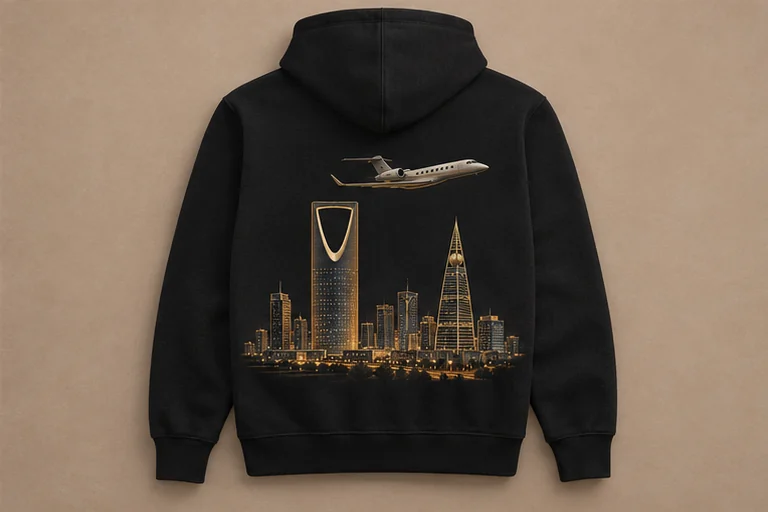
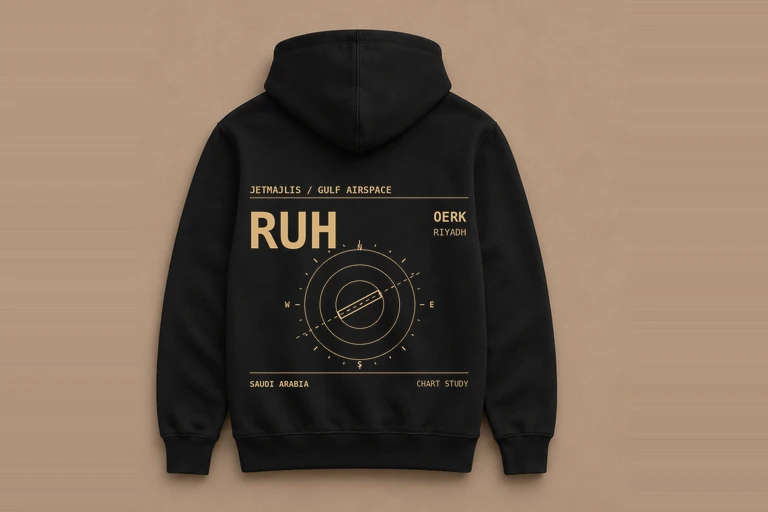
Tour the jet and add airport chart hoodie backs

Changed region(s): [[0.1562, 0.0, 0.8125, 1.0], [0.2812, 0.8125, 0.3125, 0.875]]

diff --git a/index.html b/index.html
@@ -7,8 +7,8 @@
   <meta name="description" content="JetMajlis is a Gulf aviation lifestyle brand. Explore six Gulf-inspired hoodie concepts.">
   <title>JetMajlis | Above the ordinary</title>
   <link rel="canonical" href="https://jetmajlis.com/">
-  <link rel="stylesheet" href="/assets/campaign/campaign.css?v=hoodies">
-  <script src="/assets/campaign/campaign.js?v=hoodies" defer></script>
+  <link rel="stylesheet" href="/assets/campaign/campaign.css?v=flight-deck">
+  <script src="/assets/campaign/campaign.js?v=flight-deck" defer></script>
 </head>
 <body>
 <a href="#main" class="skip"><span data-ar="انتقل إلى المحتوى">Skip to content</span></a>
@@ -28,17 +28,47 @@
 </div>
 </header>
 <main id="main">
-  <section id="home" class="flight" aria-labelledby="flight-title">
-    <div class="flight-frame">
-      <picture><source media="(max-aspect-ratio: 3/4)" srcset="/assets/campaign/sky-portrait.webp"><img class="sky" src="/assets/campaign/sky.webp" alt="" width="1536" height="1024" decoding="async"></picture>
-      <picture><source media="(max-aspect-ratio: 3/4)" srcset="/assets/campaign/cabin-portrait.webp"><img class="cabin" src="/assets/campaign/cabin.webp" alt="" width="1536" height="1024" fetchpriority="high" decoding="async"></picture>
-      <div class="flight-shade"></div>
-      <div class="flight-copy">
-        <p class="kicker"><span data-ar="أسلوب حياة مستوحى من طيران الخليج">Gulf aviation lifestyle</span></p>
-        <h1 id="flight-title"><span data-ar="فوق المألوف.">Above the ordinary.</span></h1>
-        <p class="flight-brand" lang="ar">سما العز</p>
+  <section id="home" class="journey" aria-labelledby="flight-title">
+    <div class="journey-frame">
+      <article class="journey-scene" id="jet-apron">
+        <img src="/assets/campaign/jet-apron.webp" alt="" width="768" height="512" decoding="async" fetchpriority="high">
+        <div class="journey-copy">
+          <p class="kicker"><span data-ar="ساحة الطائرات">Apron</span></p>
+          <h1 id="flight-title"><span data-ar="فوق المألوف.">Above the ordinary.</span></h1>
+          <p class="flight-brand" lang="ar">سما العز</p>
+          <a class="journey-link journey-next" href="#jet-boarding"><span data-ar="اقترب من الطائرة">Walk toward the jet</span></a>
+        </div>
+      </article>
+      <article class="journey-scene" id="jet-boarding">
+        <img src="/assets/campaign/jet-boarding.webp" alt="" width="768" height="512" decoding="async" loading="lazy">
+        <div class="journey-copy">
+          <p class="kicker"><span data-ar="الصعود">Boarding</span></p>
+          <h2><span data-ar="تفضّل بالصعود.">Step aboard.</span></h2>
+          
+          <a class="journey-link journey-next" href="#jet-cabin"><span data-ar="تابع الصعود عبر سلّم الطائرة">Follow the airstair</span></a>
+        </div>
+      </article>
+      <article class="journey-scene" id="jet-cabin">
+        <img src="/assets/campaign/jet-cabin.webp" alt="" width="768" height="512" decoding="async" loading="lazy">
+        <div class="journey-copy">
+          <p class="kicker"><span data-ar="المقصورة">Cabin</span></p>
+          <h2><span data-ar="عبر المقصورة.">Through the cabin.</span></h2>
+          
+          <a class="journey-link journey-next" href="#jet-cockpit"><span data-ar="تابع نحو مقدّمة الطائرة">Continue forward</span></a>
+        </div>
+      </article>
+      <article class="journey-scene" id="jet-cockpit">
+        <img src="/assets/campaign/jet-cockpit.webp" alt="" width="768" height="512" decoding="async" loading="lazy">
+        <div class="journey-copy">
+          <p class="kicker"><span data-ar="قمرة القيادة">Cockpit</span></p>
+          <h2><span data-ar="مجموعة قمرة القيادة.">The flight deck collection.</span></h2>
+          
+          <a class="journey-link" href="#collections"><span data-ar="تصفّح هوديز الخليج">Explore the GCC hoodies</span></a>
+        </div>
+      </article>
+      <div class="journey-track" role="group" aria-label="Tour the private jet" data-ar-label="جولة في الطائرة الخاصة" hidden>
+        <button type="button" data-stage="0" aria-controls="jet-apron" aria-pressed="true"><span data-ar="ساحة الطائرات">Apron</span></button><button type="button" data-stage="1" aria-controls="jet-boarding" aria-pressed="false"><span data-ar="الصعود">Boarding</span></button><button type="button" data-stage="2" aria-controls="jet-cabin" aria-pressed="false"><span data-ar="المقصورة">Cabin</span></button><button type="button" data-stage="3" aria-controls="jet-cockpit" aria-pressed="false"><span data-ar="قمرة القيادة">Cockpit</span></button>
       </div>
-      <a class="flight-link" href="#collections"><span data-ar="استكشف المجموعات">Explore collections</span></a>
     </div>
   </section>
   <section id="collections" class="collections" aria-labelledby="collections-title">
@@ -51,79 +81,79 @@
     <div class="shop-grid hoodie-grid">
       <article class="shop-card hoodie-card uae-hoodie" id="uae" aria-labelledby="uae-title">
         <div class="gallery">
-          <div class="gallery-stage"><figure id="uae-front"><img src="/assets/campaign/uae-hoodie-front.webp" alt="Falcon Hoodie · Front" data-ar-alt="هودي الصقر · الأمام" width="768" height="512" loading="lazy" decoding="async"></figure><figure id="uae-back" hidden><img src="/assets/campaign/uae-hoodie-back.webp" alt="Falcon Hoodie · Back" data-ar-alt="هودي الصقر · الخلف" width="768" height="512" loading="lazy" decoding="async"></figure><figure id="uae-detail" hidden><img src="/assets/campaign/uae-hoodie-detail.webp" alt="Falcon Hoodie · Detail" data-ar-alt="هودي الصقر · التفاصيل" width="768" height="512" loading="lazy" decoding="async"></figure></div>
+          <div class="gallery-stage"><figure id="uae-front"><img src="/assets/campaign/uae-hoodie-front.webp" alt="Falcon Hoodie · Front" data-ar-alt="هودي الصقر · الأمام" width="768" height="512" loading="lazy" decoding="async"></figure><figure id="uae-back" hidden><img src="/assets/campaign/uae-hoodie-back.webp?v=chart" alt="Dubai aviation back print" data-ar-alt="طبعة طيران على الظهر مستوحاة من دبي" width="768" height="512" loading="lazy" decoding="async"></figure><figure id="uae-detail" hidden><img src="/assets/campaign/uae-hoodie-detail.webp" alt="Falcon Hoodie · Detail" data-ar-alt="هودي الصقر · التفاصيل" width="768" height="512" loading="lazy" decoding="async"></figure></div>
           <button class="expand-image" type="button" aria-haspopup="dialog" hidden><span data-ar="تكبير الصورة">Enlarge image</span></button>
           <div class="gallery-controls" role="group" aria-label="Choose a product view" data-ar-label="اختر زاوية العرض"><button type="button" aria-controls="uae-front" aria-pressed="true"><span data-ar="الأمام">Front</span></button><button type="button" aria-controls="uae-back" aria-pressed="false"><span data-ar="الخلف">Back</span></button><button type="button" aria-controls="uae-detail" aria-pressed="false"><span data-ar="التفاصيل">Detail</span></button></div>
         </div>
         <div class="hoodie-copy">
           <p class="kicker"><bdi>DXB</bdi> · <span data-ar="الإمارات العربية المتحدة">United Arab Emirates</span></p>
           <h3 id="uae-title"><span data-ar="هودي الصقر">Falcon Hoodie</span></h3>
-          <p class="description"><span data-ar="هودي عاجي يزيّن صدره صقر بألوان الإمارات، وعلى ظهره طائرة رجال أعمال فوق أفق دبي.">Ivory hoodie with a falcon in UAE colours on the chest. On the back, a business jet crosses the Dubai skyline.</span></p>
+          <p class="description"><span data-ar="هودي عاجي يزيّن صدره صقر بألوان الإمارات. وعلى الظهر رسم مستوحى من خرائط الطيران في دبي يتضمّن رمز المطار.">Ivory hoodie with a falcon in UAE colours on the chest. The back carries a Dubai flight-chart graphic with its airport code.</span></p>
           <button class="shop-action shop-primary" data-add-product="uae" type="button" hidden><span data-ar="أضف إلى السلة">Add to basket</span></button>
         </div>
       </article>
       <article class="shop-card hoodie-card saudi-hoodie" id="saudi" aria-labelledby="saudi-title">
         <div class="gallery">
-          <div class="gallery-stage"><figure id="saudi-front"><img src="/assets/campaign/saudi-hoodie-front.webp" alt="Riyadh Skyline Hoodie · Front" data-ar-alt="هودي أفق الرياض · الأمام" width="768" height="512" loading="lazy" decoding="async"></figure><figure id="saudi-back" hidden><img src="/assets/campaign/saudi-hoodie-back.webp" alt="Riyadh Skyline Hoodie · Back" data-ar-alt="هودي أفق الرياض · الخلف" width="768" height="512" loading="lazy" decoding="async"></figure><figure id="saudi-detail" hidden><img src="/assets/campaign/saudi-hoodie-detail.webp" alt="Riyadh Skyline Hoodie · Detail" data-ar-alt="هودي أفق الرياض · التفاصيل" width="768" height="512" loading="lazy" decoding="async"></figure></div>
+          <div class="gallery-stage"><figure id="saudi-front"><img src="/assets/campaign/saudi-hoodie-front.webp" alt="Riyadh Skyline Hoodie · Front" data-ar-alt="هودي أفق الرياض · الأمام" width="768" height="512" loading="lazy" decoding="async"></figure><figure id="saudi-back" hidden><img src="/assets/campaign/saudi-hoodie-back.webp?v=chart" alt="Riyadh aviation back print" data-ar-alt="طبعة طيران على الظهر مستوحاة من الرياض" width="768" height="512" loading="lazy" decoding="async"></figure><figure id="saudi-detail" hidden><img src="/assets/campaign/saudi-hoodie-detail.webp" alt="Riyadh Skyline Hoodie · Detail" data-ar-alt="هودي أفق الرياض · التفاصيل" width="768" height="512" loading="lazy" decoding="async"></figure></div>
           <button class="expand-image" type="button" aria-haspopup="dialog" hidden><span data-ar="تكبير الصورة">Enlarge image</span></button>
           <div class="gallery-controls" role="group" aria-label="Choose a product view" data-ar-label="اختر زاوية العرض"><button type="button" aria-controls="saudi-front" aria-pressed="true"><span data-ar="الأمام">Front</span></button><button type="button" aria-controls="saudi-back" aria-pressed="false"><span data-ar="الخلف">Back</span></button><button type="button" aria-controls="saudi-detail" aria-pressed="false"><span data-ar="التفاصيل">Detail</span></button></div>
         </div>
         <div class="hoodie-copy">
           <p class="kicker"><bdi>RUH</bdi> · <span data-ar="السعودية">Saudi Arabia</span></p>
           <h3 id="saudi-title"><span data-ar="هودي أفق الرياض">Riyadh Skyline Hoodie</span></h3>
-          <p class="description"><span data-ar="هودي أسود يزيّن صدره رسم نخلة وسيفين متقاطعين باللون الذهبي، وعلى ظهره طائرة رجال أعمال فوق أفق الرياض.">Black hoodie with a gold palm and crossed swords on the chest. The back pairs a business jet with the Riyadh skyline.</span></p>
+          <p class="description"><span data-ar="هودي أسود يزيّن صدره رسم نخلة وسيفين متقاطعين باللون الذهبي. وعلى الظهر رسم مستوحى من خرائط الطيران في الرياض يتضمّن رمز المطار.">Black hoodie with a gold palm and crossed swords on the chest. The back carries a Riyadh flight-chart graphic with its airport code.</span></p>
           <button class="shop-action shop-primary" data-add-product="saudi" type="button" hidden><span data-ar="أضف إلى السلة">Add to basket</span></button>
         </div>
       </article>
       <article class="shop-card hoodie-card bahrain-hoodie" id="bahrain" aria-labelledby="bahrain-title">
         <div class="gallery">
-          <div class="gallery-stage"><figure id="bahrain-front"><img src="/assets/campaign/bahrain-hoodie-front.webp" alt="Bahrain Sail Towers Hoodie · Front" data-ar-alt="هودي أبراج البحرين · الأمام" width="768" height="512" loading="lazy" decoding="async"></figure><figure id="bahrain-detail" hidden><img src="/assets/campaign/bahrain-hoodie-detail.webp" alt="Bahrain Sail Towers Hoodie · Detail" data-ar-alt="هودي أبراج البحرين · التفاصيل" width="768" height="512" loading="lazy" decoding="async"></figure></div>
+          <div class="gallery-stage"><figure id="bahrain-front"><img src="/assets/campaign/bahrain-hoodie-front.webp" alt="Bahrain Sail Towers Hoodie · Front" data-ar-alt="هودي أبراج البحرين · الأمام" width="768" height="512" loading="lazy" decoding="async"></figure><figure id="bahrain-back" hidden><img src="/assets/campaign/bahrain-hoodie-back.webp?v=chart" alt="Bahrain aviation back print" data-ar-alt="طبعة طيران على الظهر مستوحاة من البحرين" width="768" height="512" loading="lazy" decoding="async"></figure><figure id="bahrain-detail" hidden><img src="/assets/campaign/bahrain-hoodie-detail.webp" alt="Bahrain Sail Towers Hoodie · Detail" data-ar-alt="هودي أبراج البحرين · التفاصيل" width="768" height="512" loading="lazy" decoding="async"></figure></div>
           <button class="expand-image" type="button" aria-haspopup="dialog" hidden><span data-ar="تكبير الصورة">Enlarge image</span></button>
-          <div class="gallery-controls" role="group" aria-label="Choose a product view" data-ar-label="اختر زاوية العرض"><button type="button" aria-controls="bahrain-front" aria-pressed="true"><span data-ar="الأمام">Front</span></button><button type="button" aria-controls="bahrain-detail" aria-pressed="false"><span data-ar="التفاصيل">Detail</span></button></div>
+          <div class="gallery-controls" role="group" aria-label="Choose a product view" data-ar-label="اختر زاوية العرض"><button type="button" aria-controls="bahrain-front" aria-pressed="true"><span data-ar="الأمام">Front</span></button><button type="button" aria-controls="bahrain-back" aria-pressed="false"><span data-ar="الخلف">Back</span></button><button type="button" aria-controls="bahrain-detail" aria-pressed="false"><span data-ar="التفاصيل">Detail</span></button></div>
         </div>
         <div class="hoodie-copy">
           <p class="kicker"><bdi>BAH</bdi> · <span data-ar="البحرين">Bahrain</span></p>
           <h3 id="bahrain-title"><span data-ar="هودي أبراج البحرين">Bahrain Sail Towers Hoodie</span></h3>
-          <p class="description"><span data-ar="هودي رملي يزيّنه رسم برجي مركز البحرين التجاري العالمي في المنامة، المستوحيين من شكل الأشرعة.">Sand hoodie featuring the twin sail-shaped towers of the Bahrain World Trade Center in Manama.</span></p>
+          <p class="description"><span data-ar="هودي رملي يزيّنه رسم برجي مركز البحرين التجاري العالمي في المنامة، المستوحيين من شكل الأشرعة. وعلى الظهر رسم مستوحى من خرائط الطيران في البحرين يتضمّن رمز المطار.">Sand hoodie featuring the twin sail-shaped towers of the Bahrain World Trade Center in Manama. The back carries a Bahrain flight-chart graphic with its airport code.</span></p>
           <button class="shop-action shop-primary" data-add-product="bahrain" type="button" hidden><span data-ar="أضف إلى السلة">Add to basket</span></button>
         </div>
       </article>
       <article class="shop-card hoodie-card qatar-hoodie" id="qatar" aria-labelledby="qatar-title">
         <div class="gallery">
-          <div class="gallery-stage"><figure id="qatar-front"><img src="/assets/campaign/qatar-hoodie-front.webp" alt="Doha Museum Hoodie · Front" data-ar-alt="هودي متحف الدوحة · الأمام" width="768" height="512" loading="lazy" decoding="async"></figure><figure id="qatar-detail" hidden><img src="/assets/campaign/qatar-hoodie-detail.webp" alt="Doha Museum Hoodie · Detail" data-ar-alt="هودي متحف الدوحة · التفاصيل" width="768" height="512" loading="lazy" decoding="async"></figure></div>
+          <div class="gallery-stage"><figure id="qatar-front"><img src="/assets/campaign/qatar-hoodie-front.webp" alt="Doha Museum Hoodie · Front" data-ar-alt="هودي متحف الدوحة · الأمام" width="768" height="512" loading="lazy" decoding="async"></figure><figure id="qatar-back" hidden><img src="/assets/campaign/qatar-hoodie-back.webp?v=chart" alt="Doha aviation back print" data-ar-alt="طبعة طيران على الظهر مستوحاة من الدوحة" width="768" height="512" loading="lazy" decoding="async"></figure><figure id="qatar-detail" hidden><img src="/assets/campaign/qatar-hoodie-detail.webp" alt="Doha Museum Hoodie · Detail" data-ar-alt="هودي متحف الدوحة · التفاصيل" width="768" height="512" loading="lazy" decoding="async"></figure></div>
           <button class="expand-image" type="button" aria-haspopup="dialog" hidden><span data-ar="تكبير الصورة">Enlarge image</span></button>
-          <div class="gallery-controls" role="group" aria-label="Choose a product view" data-ar-label="اختر زاوية العرض"><button type="button" aria-controls="qatar-front" aria-pressed="true"><span data-ar="الأمام">Front</span></button><button type="button" aria-controls="qatar-detail" aria-pressed="false"><span data-ar="التفاصيل">Detail</span></button></div>
+          <div class="gallery-controls" role="group" aria-label="Choose a product view" data-ar-label="اختر زاوية العرض"><button type="button" aria-controls="qatar-front" aria-pressed="true"><span data-ar="الأمام">Front</span></button><button type="button" aria-controls="qatar-back" aria-pressed="false"><span data-ar="الخلف">Back</span></button><button type="button" aria-controls="qatar-detail" aria-pressed="false"><span data-ar="التفاصيل">Detail</span></button></div>
         </div>
         <div class="hoodie-copy">
           <p class="kicker"><bdi>DOH</bdi> · <span data-ar="قطر">Qatar</span></p>
           <h3 id="qatar-title"><span data-ar="هودي متحف الدوحة">Doha Museum Hoodie</span></h3>
-          <p class="description"><span data-ar="هودي عنابي يزيّنه رسم عاجي مستوحى من التكوين الهندسي لمتحف الفن الإسلامي في الدوحة.">Maroon hoodie with an ivory motif inspired by the geometric silhouette of Doha’s Museum of Islamic Art.</span></p>
+          <p class="description"><span data-ar="هودي عنابي يزيّنه رسم عاجي مستوحى من التكوين الهندسي لمتحف الفن الإسلامي في الدوحة. وعلى الظهر رسم مستوحى من خرائط الطيران في الدوحة يتضمّن رمز المطار.">Maroon hoodie with an ivory motif inspired by the geometric silhouette of Doha’s Museum of Islamic Art. The back carries a Doha flight-chart graphic with its airport code.</span></p>
           <button class="shop-action shop-primary" data-add-product="qatar" type="button" hidden><span data-ar="أضف إلى السلة">Add to basket</span></button>
         </div>
       </article>
       <article class="shop-card hoodie-card kuwait-hoodie" id="kuwait" aria-labelledby="kuwait-title">
         <div class="gallery">
-          <div class="gallery-stage"><figure id="kuwait-front"><img src="/assets/campaign/kuwait-hoodie-front.webp" alt="Kuwait Towers Hoodie · Front" data-ar-alt="هودي أبراج الكويت · الأمام" width="768" height="512" loading="lazy" decoding="async"></figure><figure id="kuwait-detail" hidden><img src="/assets/campaign/kuwait-hoodie-detail.webp" alt="Kuwait Towers Hoodie · Detail" data-ar-alt="هودي أبراج الكويت · التفاصيل" width="768" height="512" loading="lazy" decoding="async"></figure></div>
+          <div class="gallery-stage"><figure id="kuwait-front"><img src="/assets/campaign/kuwait-hoodie-front.webp" alt="Kuwait Towers Hoodie · Front" data-ar-alt="هودي أبراج الكويت · الأمام" width="768" height="512" loading="lazy" decoding="async"></figure><figure id="kuwait-back" hidden><img src="/assets/campaign/kuwait-hoodie-back.webp?v=chart" alt="Kuwait aviation back print" data-ar-alt="طبعة طيران على الظهر مستوحاة من الكويت" width="768" height="512" loading="lazy" decoding="async"></figure><figure id="kuwait-detail" hidden><img src="/assets/campaign/kuwait-hoodie-detail.webp" alt="Kuwait Towers Hoodie · Detail" data-ar-alt="هودي أبراج الكويت · التفاصيل" width="768" height="512" loading="lazy" decoding="async"></figure></div>
           <button class="expand-image" type="button" aria-haspopup="dialog" hidden><span data-ar="تكبير الصورة">Enlarge image</span></button>
-          <div class="gallery-controls" role="group" aria-label="Choose a product view" data-ar-label="اختر زاوية العرض"><button type="button" aria-controls="kuwait-front" aria-pressed="true"><span data-ar="الأمام">Front</span></button><button type="button" aria-controls="kuwait-detail" aria-pressed="false"><span data-ar="التفاصيل">Detail</span></button></div>
+          <div class="gallery-controls" role="group" aria-label="Choose a product view" data-ar-label="اختر زاوية العرض"><button type="button" aria-controls="kuwait-front" aria-pressed="true"><span data-ar="الأمام">Front</span></button><button type="button" aria-controls="kuwait-back" aria-pressed="false"><span data-ar="الخلف">Back</span></button><button type="button" aria-controls="kuwait-detail" aria-pressed="false"><span data-ar="التفاصيل">Detail</span></button></div>
         </div>
         <div class="hoodie-copy">
           <p class="kicker"><bdi>KWI</bdi> · <span data-ar="الكويت">Kuwait</span></p>
           <h3 id="kuwait-title"><span data-ar="هودي أبراج الكويت">Kuwait Towers Hoodie</span></h3>
-          <p class="description"><span data-ar="هودي فحمي يزيّنه رسم لأبراج الكويت بكراتها المميّزة باللون التركوازي.">Charcoal hoodie with the distinctive spheres of Kuwait Towers picked out in teal.</span></p>
+          <p class="description"><span data-ar="هودي فحمي يزيّنه رسم لأبراج الكويت بكراتها المميّزة باللون التركوازي. وعلى الظهر رسم مستوحى من خرائط الطيران في الكويت يتضمّن رمز المطار.">Charcoal hoodie with the distinctive spheres of Kuwait Towers picked out in teal. The back carries a Kuwait flight-chart graphic with its airport code.</span></p>
           <button class="shop-action shop-primary" data-add-product="kuwait" type="button" hidden><span data-ar="أضف إلى السلة">Add to basket</span></button>
         </div>
       </article>
       <article class="shop-card hoodie-card oman-hoodie" id="oman" aria-labelledby="oman-title">
         <div class="gallery">
-          <div class="gallery-stage"><figure id="oman-front"><img src="/assets/campaign/oman-hoodie-front.webp" alt="Oman Dhow Hoodie · Front" data-ar-alt="هودي الداو العُماني · الأمام" width="768" height="512" loading="lazy" decoding="async"></figure><figure id="oman-detail" hidden><img src="/assets/campaign/oman-hoodie-detail.webp" alt="Oman Dhow Hoodie · Detail" data-ar-alt="هودي الداو العُماني · التفاصيل" width="768" height="512" loading="lazy" decoding="async"></figure></div>
+          <div class="gallery-stage"><figure id="oman-front"><img src="/assets/campaign/oman-hoodie-front.webp" alt="Oman Dhow Hoodie · Front" data-ar-alt="هودي الداو العُماني · الأمام" width="768" height="512" loading="lazy" decoding="async"></figure><figure id="oman-back" hidden><img src="/assets/campaign/oman-hoodie-back.webp?v=chart" alt="Muscat aviation back print" data-ar-alt="طبعة طيران على الظهر مستوحاة من مسقط" width="768" height="512" loading="lazy" decoding="async"></figure><figure id="oman-detail" hidden><img src="/assets/campaign/oman-hoodie-detail.webp" alt="Oman Dhow Hoodie · Detail" data-ar-alt="هودي الداو العُماني · التفاصيل" width="768" height="512" loading="lazy" decoding="async"></figure></div>
           <button class="expand-image" type="button" aria-haspopup="dialog" hidden><span data-ar="تكبير الصورة">Enlarge image</span></button>
-          <div class="gallery-controls" role="group" aria-label="Choose a product view" data-ar-label="اختر زاوية العرض"><button type="button" aria-controls="oman-front" aria-pressed="true"><span data-ar="الأمام">Front</span></button><button type="button" aria-controls="oman-detail" aria-pressed="false"><span data-ar="التفاصيل">Detail</span></button></div>
+          <div class="gallery-controls" role="group" aria-label="Choose a product view" data-ar-label="اختر زاوية العرض"><button type="button" aria-controls="oman-front" aria-pressed="true"><span data-ar="الأمام">Front</span></button><button type="button" aria-controls="oman-back" aria-pressed="false"><span data-ar="الخلف">Back</span></button><button type="button" aria-controls="oman-detail" aria-pressed="false"><span data-ar="التفاصيل">Detail</span></button></div>
         </div>
         <div class="hoodie-copy">
           <p class="kicker"><bdi>MCT</bdi> · <span data-ar="عُمان">Oman</span></p>
           <h3 id="oman-title"><span data-ar="هودي الداو العُماني">Oman Dhow Hoodie</span></h3>
-          <p class="description"><span data-ar="هودي عاجي يزيّنه رسم بالأحمر الداكن لقارب داو عُماني تقليدي أمام سلسلة جبلية.">Ivory hoodie with a deep red motif pairing a traditional Omani dhow with the mountain ridgeline.</span></p>
+          <p class="description"><span data-ar="هودي عاجي يزيّنه رسم بالأحمر الداكن لقارب داو عُماني تقليدي أمام سلسلة جبلية. وعلى الظهر رسم مستوحى من خرائط الطيران في مسقط يتضمّن رمز المطار.">Ivory hoodie with a deep red motif pairing a traditional Omani dhow with the mountain ridgeline. The back carries a Muscat flight-chart graphic with its airport code.</span></p>
           <button class="shop-action shop-primary" data-add-product="oman" type="button" hidden><span data-ar="أضف إلى السلة">Add to basket</span></button>
         </div>
       </article>

diff --git a/assets/campaign/campaign.js b/assets/campaign/campaign.js
@@ -2,8 +2,8 @@ const root = document.documentElement;
 const header = document.querySelector('.site-header');
 const menu = document.querySelector('.menu-toggle');
 const nav = document.querySelector('#nav');
-const flight = document.querySelector('.flight');
-const frame = flight.querySelector('.flight-frame');
+const flight = document.querySelector('.journey');
+const frame = flight.querySelector('.journey-frame');
 const motion = matchMedia('(prefers-reduced-motion: no-preference)');
 const desktopPointer = matchMedia('(hover: hover) and (pointer: fine)');
 
@@ -80,10 +80,12 @@ for (const group of document.querySelectorAll('.gallery-controls, .route-options
   }
 }
 
+const scenes = [...frame.querySelectorAll('.journey-scene')];
+const track = frame.querySelector('.journey-track');
+const stages = [...track.querySelectorAll('[data-stage]')];
 const clamp = (value) => Math.min(1, Math.max(0, value));
-const span = (value, start, end) => clamp((value - start) / (end - start));
-const ease = (value) => value * value * (3 - 2 * value);
 let queued = false;
+let activeStage = -1;
 
 function renderFlight() {
   queued = false;
@@ -93,16 +95,27 @@ function renderFlight() {
 
   const travel = flight.offsetHeight - frame.offsetHeight;
   const progress = travel > 0 ? clamp(-bounds.top / travel) : 0;
-  const approach = ease(span(progress, .05, .65));
-  const transition = ease(span(progress, .35, .63));
-  const typeReveal = ease(span(progress, .54, .78));
-  const typeOut = ease(span(progress, .08, .33));
-  const reading = progress < .48 ? 1 - typeOut : typeReveal;
-  frame.style.setProperty('--cabin-scale', 1 + approach * 4.8);
-  frame.style.setProperty('--cabin-opacity', 1 - transition);
-  frame.style.setProperty('--sky-scale', 1.12 - ease(span(progress, .37, .98)) * .12);
-  frame.style.setProperty('--title-opacity', reading);
-  frame.style.setProperty('--title-y', `${(1 - reading) * 65}%`);
+  const position = progress * scenes.length;
+  const chapter = Math.min(scenes.length - 1, Math.floor(position));
+  const fraction = position - chapter;
+  const fade = chapter === scenes.length - 1 ? 0 : clamp((fraction - .67) / .33);
+  const selected = chapter + (fade > .5 && chapter + 1 < scenes.length ? 1 : 0);
+  scenes.forEach((scene, index) => {
+    const next = index === chapter + 1;
+    scene.style.setProperty('--scene-opacity', index === chapter ? 1 : next ? fade : 0);
+    scene.style.setProperty('--scene-scale', index === chapter ? 1 + fraction * .11 : 1);
+    scene.style.setProperty('--copy-opacity', index === chapter ? 1 - fade : next ? fade : 0);
+  });
+  track.style.setProperty('--tour-progress', progress);
+  if (selected !== activeStage) {
+    activeStage = selected;
+    stages.forEach((button, index) => button.setAttribute('aria-pressed', String(index === selected)));
+    for (const [index, scene] of scenes.entries()) {
+      const focused = document.activeElement;
+      if (index !== selected && scene.contains(focused)) stages[selected].focus({ preventScroll: true });
+      scene.inert = index !== selected;
+    }
+  }
 }
 
 function requestFrame() {
@@ -112,10 +125,33 @@ function requestFrame() {
   }
 }
 
+function goToStage(index) {
+  const top = window.scrollY + flight.getBoundingClientRect().top;
+  const travel = flight.offsetHeight - frame.offsetHeight;
+  window.scrollTo({ top: top + travel * (index + .13) / scenes.length, behavior: 'smooth' });
+}
+
+for (const [index, button] of stages.entries()) {
+  button.addEventListener('click', () => goToStage(index));
+}
+for (const [index, scene] of scenes.entries()) {
+  scene.querySelector('.journey-next')?.addEventListener('click', (event) => {
+    if (!motion.matches) return;
+    event.preventDefault();
+    stages[index + 1].focus({ preventScroll: true });
+    goToStage(index + 1);
+  });
+}
+
 function updateMotion() {
   root.classList.toggle('has-motion', motion.matches);
+  track.hidden = !motion.matches;
+  activeStage = -1;
   if (!motion.matches) {
-    frame.removeAttribute('style');
+    for (const scene of scenes) {
+      scene.removeAttribute('style');
+      scene.inert = false;
+    }
     for (const element of document.querySelectorAll('.gallery-stage')) element.removeAttribute('style');
   }
   requestFrame();

diff --git a/assets/campaign/campaign.css b/assets/campaign/campaign.css
@@ -278,3 +278,27 @@ html:has(dialog[open]) { overflow: hidden; }
   .hoodie-card .shop-action { display: block; width: 100%; text-align: center; }
   .basket-actions { flex-direction: column-reverse; align-items: stretch; }
 }
+
+.journey { color: var(--paper); background: #221d18; }
+.journey-frame { position: relative; }
+.journey-scene { position: relative; min-height: 35rem; height: 100svh; display: grid; align-items: end; isolation: isolate; overflow: hidden; }
+.journey-scene img { position: absolute; inset: 0; width: 100%; height: 100%; object-fit: cover; transform: scale(var(--scene-scale, 1)); z-index: -2; }
+.journey-scene::after { content: ''; position: absolute; inset: 0; background: linear-gradient(#191714a8, transparent 25%, #19171413 44%, #191714f0); z-index: -1; }
+.journey-copy { padding: 6rem var(--edge) 6rem; opacity: var(--copy-opacity, 1); }
+.journey-copy h1, .journey-copy h2 { max-width: 14ch; font-size: clamp(3.6rem, 9vw, 9.5rem); line-height: 1; margin: .12em 0; }
+.journey-link { display: inline-grid; align-items: center; min-height: 44px; border-bottom: 1px solid currentColor; margin-top: .75rem; }
+.has-motion .journey { height: 390vh; height: 390svh; }
+.has-motion .journey-frame { position: sticky; top: 0; height: 100svh; overflow: hidden; }
+.has-motion .journey-scene { position: absolute; inset: 0; height: 100%; min-height: 0; opacity: var(--scene-opacity, 0); }
+.has-motion .journey-scene:first-child { opacity: var(--scene-opacity, 1); }
+.has-motion .journey-scene[inert] { pointer-events: none; }
+.journey-track { position: absolute; display: flex; inset: auto var(--edge) 1.2rem; z-index: 1; border-top: 1px solid #e8dcca69; }
+.journey-track::before { content: ''; position: absolute; pointer-events: none; inset: -1px 0 auto; height: 1px; background: #efc992; transform: scaleX(var(--tour-progress, 0)); transform-origin: left; }
+:lang(ar) .journey-track::before { transform-origin: right; }
+.journey-track button { flex: 1; background: none; border: 0; border-bottom: 1px solid transparent; color: #f4efe5; min-height: 44px; padding: .25rem .35rem; text-align: start; font-size: .86rem; }
+.journey-track button[aria-pressed="true"] { color: #ffe0ab; border-color: #ffe0ab; }
+@media (max-width: 38rem) {
+  .journey-copy { padding-bottom: 5.25rem; }
+  .journey-copy h1, .journey-copy h2 { font-size: clamp(3.25rem, 13vw, 5rem); }
+  .journey-scene:first-child img { object-position: 52% center; }
+}

diff --git a/JETMAJLIS-DEPLOY.md b/JETMAJLIS-DEPLOY.md
@@ -18,11 +18,12 @@ the repository root directly can also resolve the campaign assets from that root
 Other projects using this repository can keep their existing build settings.
 
 The six hoodie concepts use generated product mockups. Detail views are crops
-of the corresponding images. The cabin and overhead jet are generated campaign visuals.
+of the corresponding images. The walkaround, boarding, cabin and cockpit are generated campaign visuals.
+Hoodie backs use decorative airport-code graphics inspired by flight charts.
 The display and Arabic font files reuse the repository's Cormorant Garamond
 and IBM Plex Sans Arabic assets.
 
 Before releasing, verify the Cloudflare preview at phone and desktop widths.
-Scroll through the cabin sequence, switch the product views and open an enlarged
+Scroll from the apron to the cockpit, switch the product views and open an enlarged
 image, select the six GCC destinations, and check the Arabic layout and the
 reduced-motion experience.
